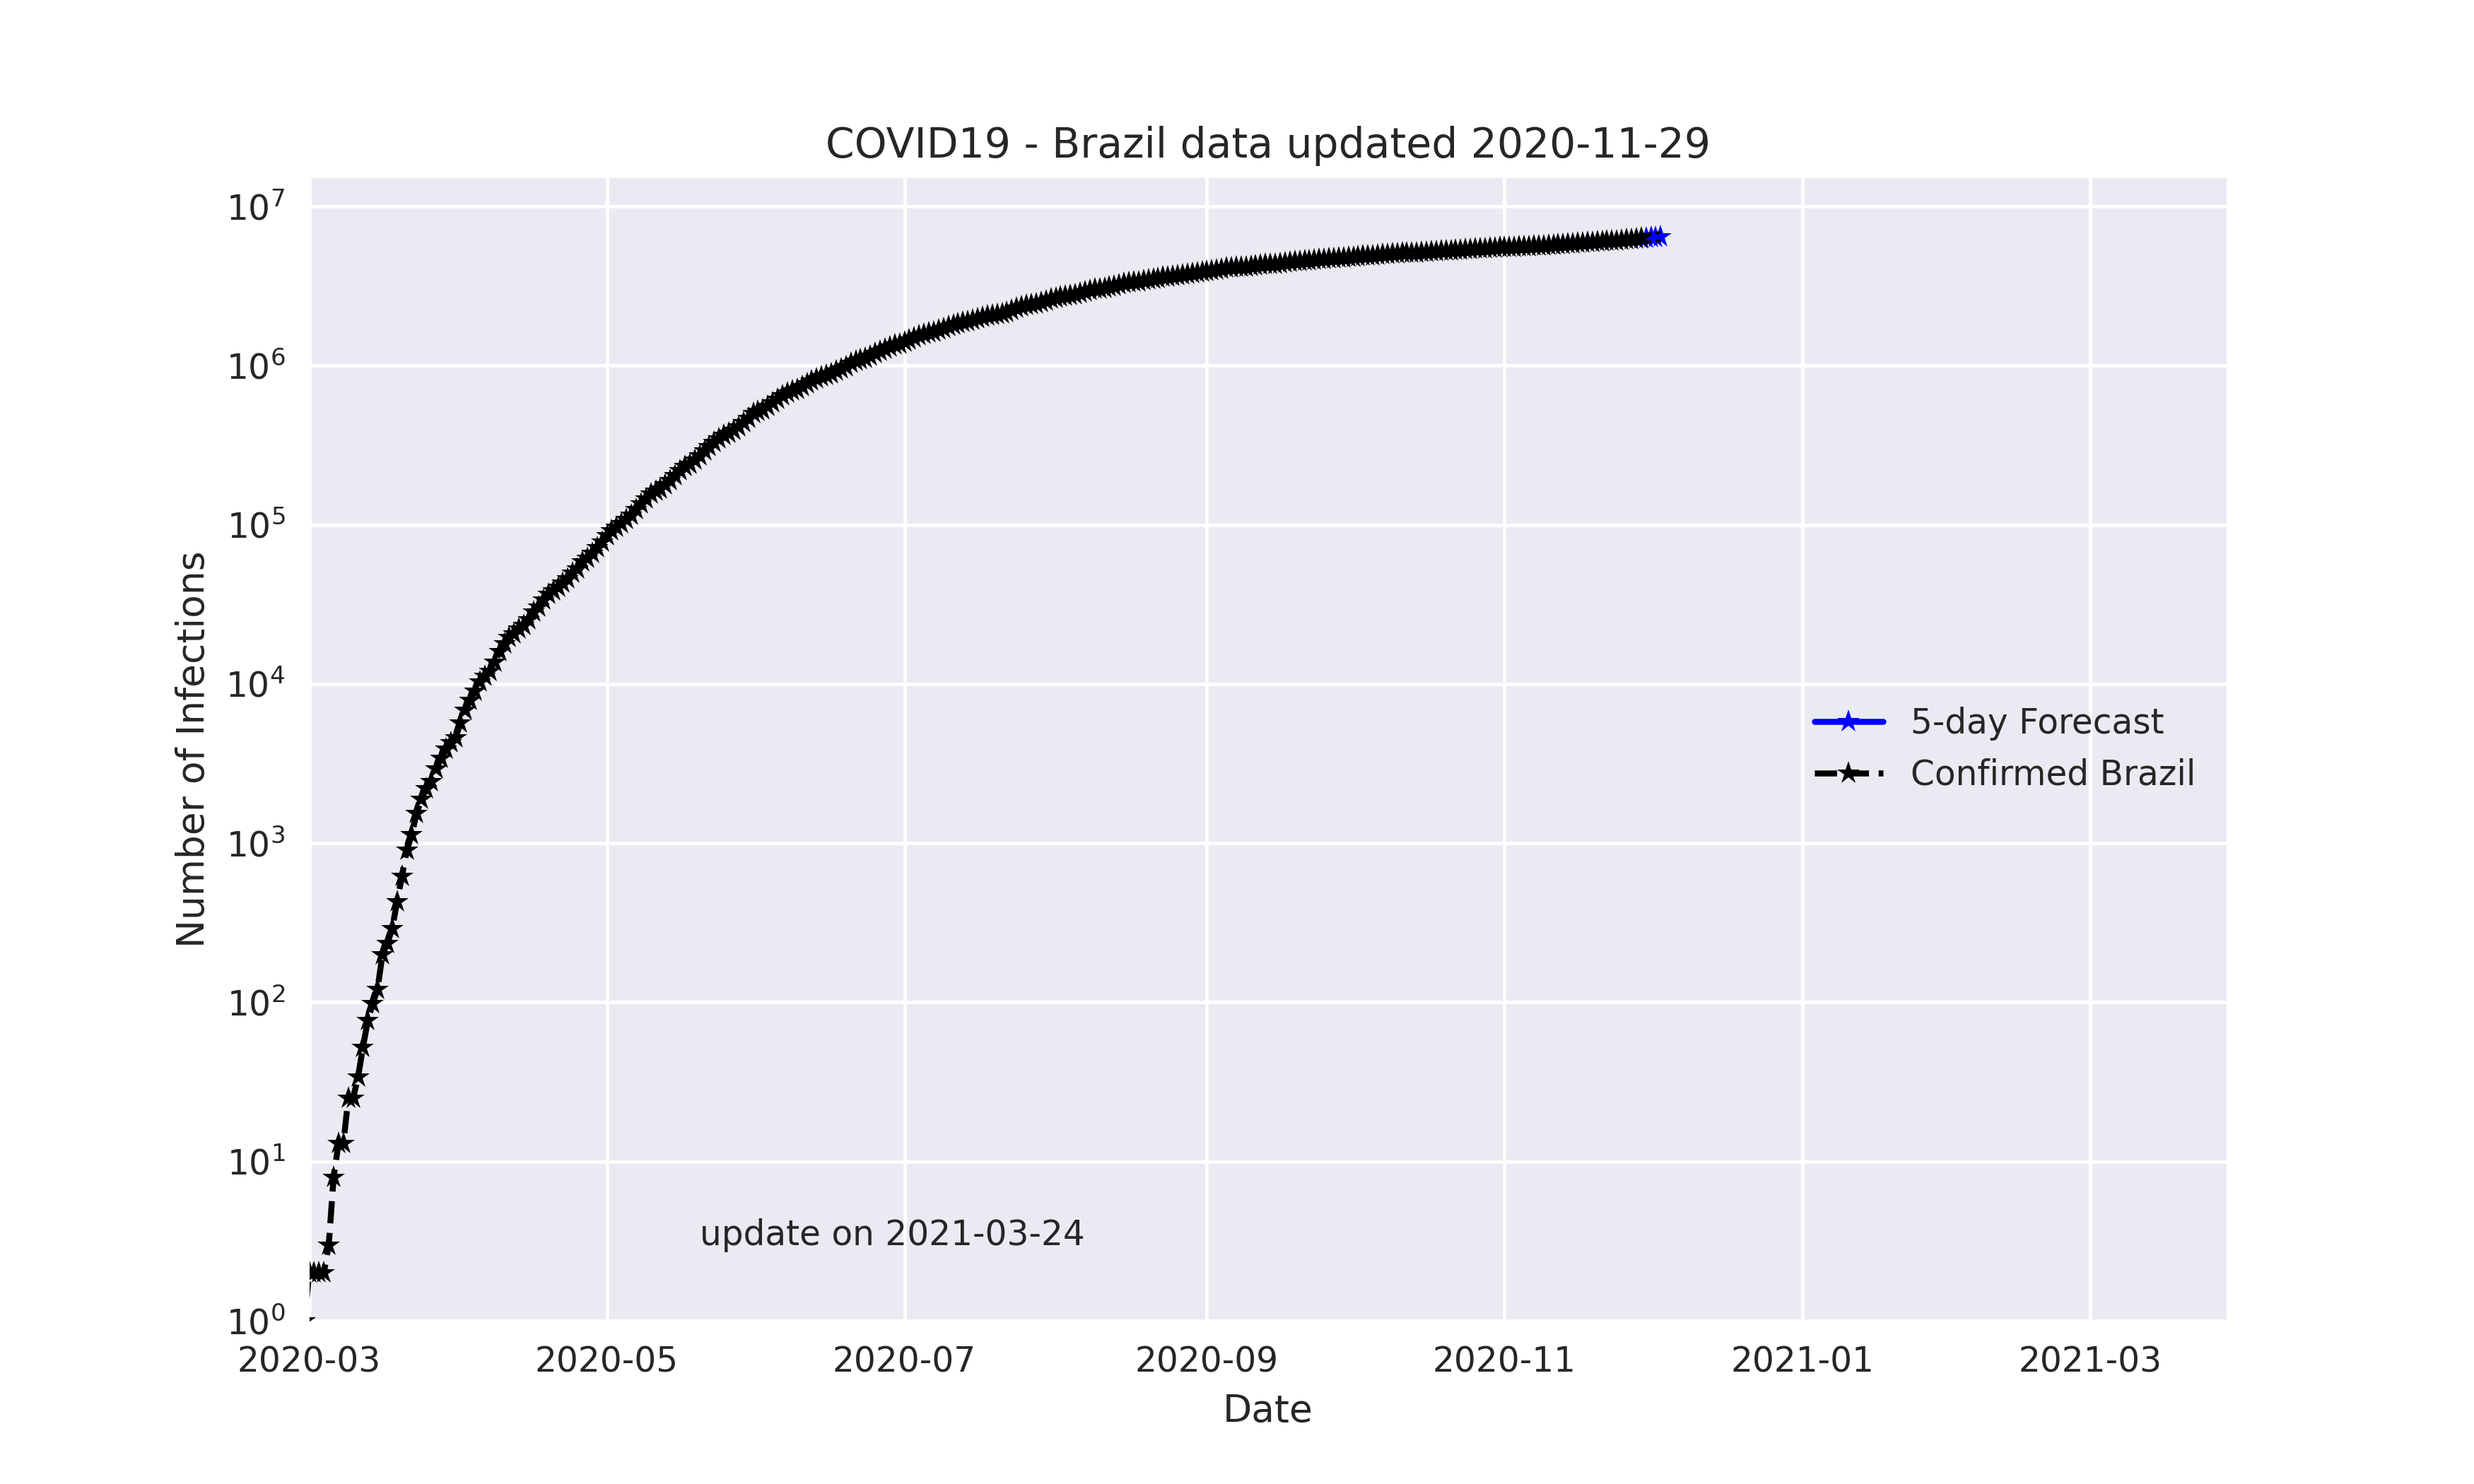
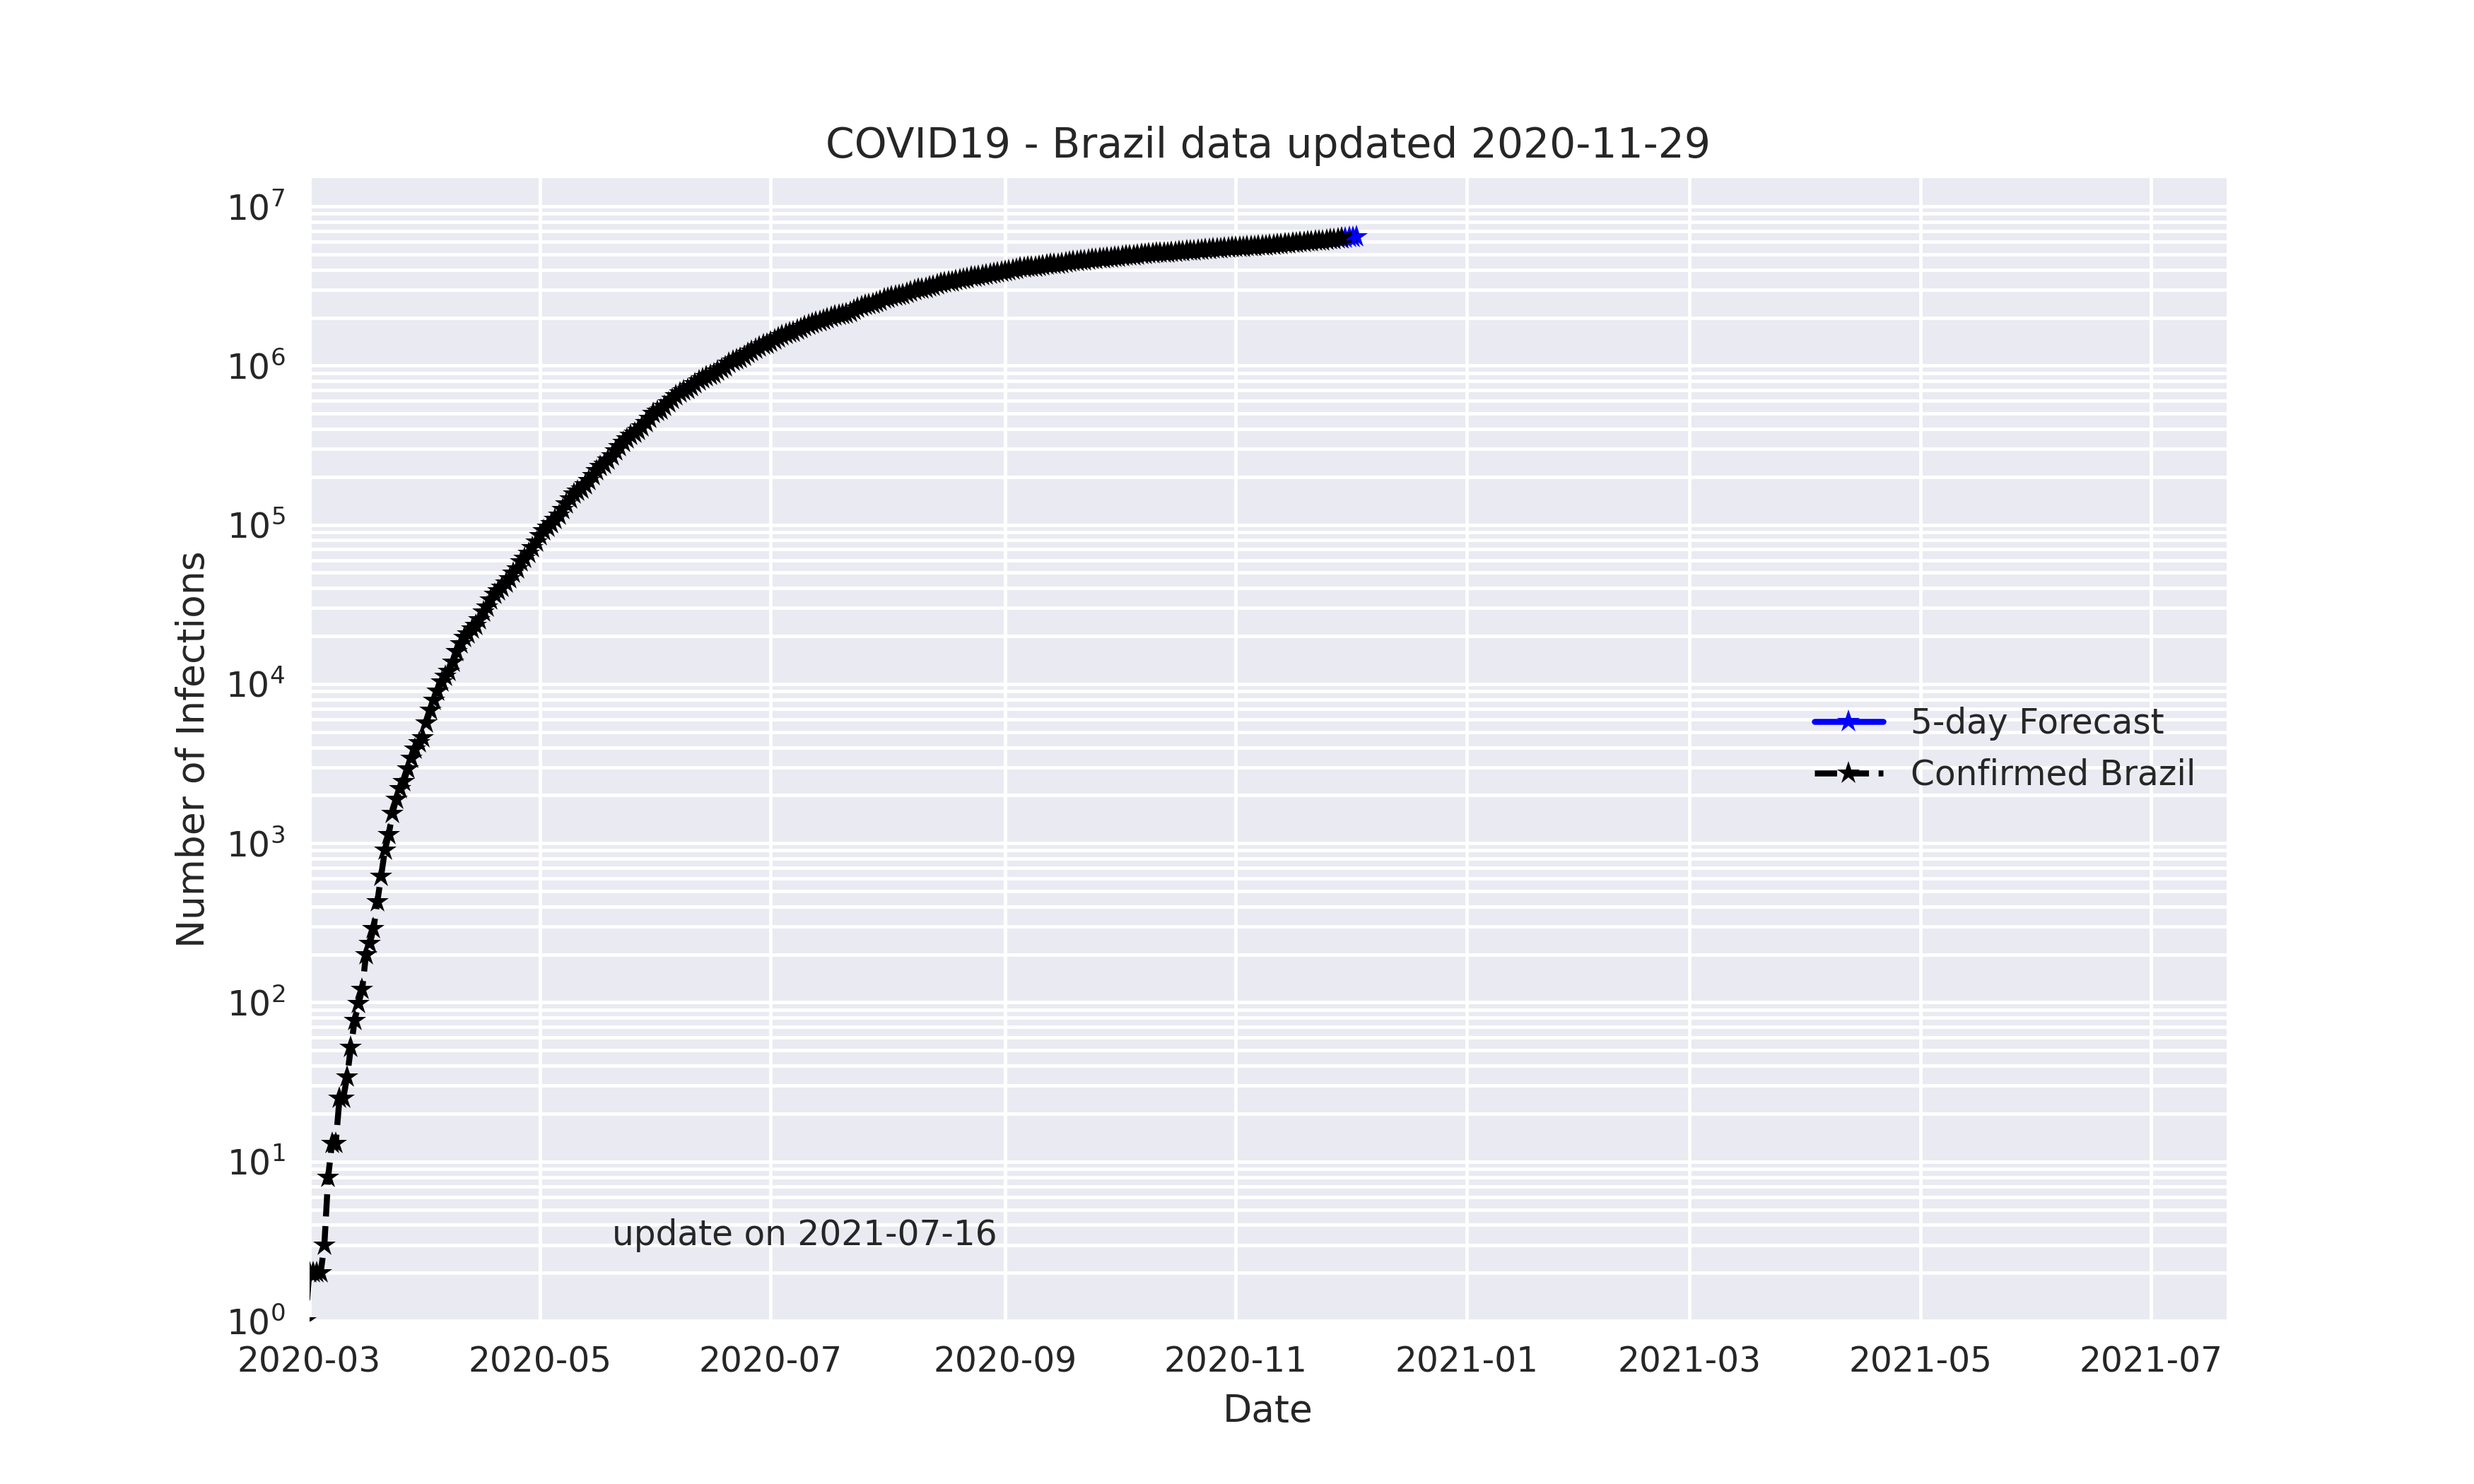
new version of data visualization, the datasets are old, for BR it is updated.

diff --git a/Corona19-Brazil_projeto.py b/Corona19-Brazil_projeto.py
@@ -1,18 +1,7 @@
-# %%
-#!/usr/bin/env python
-# coding: utf-8
-
-# In[1]:
-
-
-# coding: utf-8
-
-from datetime import timedelta, datetime
-
 import numpy as np
-
-import matplotlib.pyplot as plt
 import pandas as pd
+import matplotlib.pyplot as plt
+from datetime import timedelta, datetime
 # importa a biblioteca plotly.graph_objs para criação do gráfico interativo
 import plotly.graph_objs as go
 
@@ -21,44 +10,23 @@ import plotly.graph_objs as go
 
 plt.style.use('seaborn')
 
-# # delete a old file
-# # os.remove("./JHU_COVID-19.csv")
-# os.remove("./full_data.csv")
 # # download the new datasheet form JH
-# # url ="https://s3-us-west-1.amazonaws.com/starschema.covid/JHU_COVID-19.csv"
+# url ="https://s3-us-west-1.amazonaws.com/starschema.covid/JHU_COVID-19.csv"
 # url ="https://covid.ourworldindata.org/data/ecdc/full_data.csv"
 # output_directory = "."
-# filename = wget.download(url, out=output_directory)
 printimage = 'off' # on ou off
 
 # read a csv to DataFrame with pandas
-data = pd.read_csv("https://covid.ourworldindata.org/data/ecdc/full_data.csv")
+# data = pd.read_csv("https://covid.ourworldindata.org/data/ecdc/full_data.csv")
+
+# data = pd.read_csv('/home/claudio/Documents/profissao_DS/projetos/corona/JHU_COVID-19.csv')
+data = pd.read_csv('/home/claudio/Documents/profissao_DS/projetos/corona/full_data.csv')
 
 data.index = pd.to_datetime(data.date)
-# sel data form Brazil
+## sel data form Brazil
 ctry = data[data["location"] == 'Brazil']
 tested = ctry.copy()
-
-# create a arrays for curve fit parameters of a exponential equation
-# xdays = []
-# ydata = []
 dateCase = []
-# today=datetime.now().date()
-# offsetcases = 1000.
-# ndays=10
-# ################################### Cases #####
-# cond_idx = tested.index[np.where(tested["total_cases"]>offsetcases)]
-# case1 = cond_idx[0]
-# ndate = cond_idx
-# ########################################
-# for ib in enumerate(ndate):
-#     if tested["total_cases"][cond_idx[ib[0]]] >= offsetcases:
-#         selday = (ib[1]-case1).days == np.arange(0,len(cond_idx)+ndays,ndays)
-#         if True in selday:
-#             xdays.append((ib[1]-case1).days)
-#             ydata.append(tested["total_cases"][cond_idx[ib[0]]])
-#             dateCase.append(tested["date"][cond_idx[ib[0]]])
-# >>>>>>>>>
 
 # do fiting
 # ydata = tested.last("5W").resample('1W').mean().total_cases.values
@@ -99,8 +67,6 @@ hojebr = func(len(xdata)+1, *poptbr)
 # print(tocsv.to_markdown())
 
 # Graphic Brazil
-
-# Graphic Brazil
 fig = plt.figure(figsize=[10, 6])
 ax2 = plt.subplot()
 
@@ -118,9 +84,10 @@ ax2.set_xlim(pd.to_datetime("2020-03-01").date(), datetime.now().date()+timedelt
 ax2.set_yscale('log')
 ax2.set_ylim(1,)
 ax2.legend(loc="center right")
-ax2.grid(1)
+ax2.grid('both','both')
 plt.show()
-fig.savefig("images/log_data_forecast_brazil.png", dpi=350)
+fig.savefig("./images/log_data_forecast_brazil.png", dpi=350)
+
 
 #  Countreis of South America
 ############################SA##############
@@ -143,16 +110,16 @@ for ii in sa:
     if len(p) > 0:
         ax.plot(pd.to_datetime(p.date),p.total_cases, label=ii)
         lf = p.total_cases.index[p.total_cases.argmax()].date()
-        ax.text(lf+timedelta(days=2),p.total_cases.max(), ii)
+        # ax.text(lf+timedelta(days=2),p.total_cases.max(), ii)
 ax.plot(psum,'-*',label= 'sum South America')
-ax.text(pd.to_datetime('2020-06-01'), 20, 'update on ' + str(today))
+ax.text(pd.to_datetime('2020-06-01'), 30, 'update on ' + str(today))
 ax.set_yscale('log')
 ax.set_title("Countries of South America")
 ax.set_ylabel("Number of Infections")
 ax.set_xlim(pd.to_datetime('2020-03-13').date(), lf+timedelta(days=15))
 ax.set_xlabel('Date when over 20 cases confirmeds')
 ax.set_ylim(10,)
-plt.legend(loc='upper center', bbox_to_anchor=(1.13, 0.8), shadow=True, ncol=1)
+plt.legend(loc='upper right', bbox_to_anchor=(1.0, 0.3), shadow=True, ncol=2, fontsize=8)
 if printimage == "off":
 	fig.savefig("images/southAmerica_brazil.png", dpi=350)
 	plt.close()
@@ -167,7 +134,6 @@ else:
 borderBR = ['Argentina', 'Bolivia', 'Brazil', 'Colombia', 'French Guiana', 'Guyana', 'Paraguay', 'Peru', 'Suriname']
 borderBR = sorted(borderBR)
 
-# psum.values
 ############################
 fig = plt.figure(figsize=[10, 6])
 ax = plt.subplot()
@@ -177,15 +143,15 @@ for ii in borderBR:
     if len(p) > 0:
         ax.plot(pd.to_datetime(p.date),p.total_cases, label=ii)
         lf = p.total_cases.index[p.total_cases.argmax()].date()
-        ax.text(lf+timedelta(days=2),p.total_cases.max(), ii)
+        # ax.text(lf+timedelta(days=2),p.total_cases.max(), ii)
 ax.text(pd.to_datetime('2020-06-01'), 20, 'update on ' + str(today))
-ax.set_yscale('log')
+# ax.set_yscale('log')
 ax.set_title("Countries bordering of Brazil")
 ax.set_ylabel("Number of Infections")
 ax.set_xlim(pd.to_datetime('2020-03-13').date(), lf+timedelta(days=15))
 ax.set_xlabel('Date when over 20 cases confirmeds')
 ax.set_ylim(10,)
-plt.legend(loc='upper center', bbox_to_anchor=(1.08, 0.8), shadow=True, ncol=1)
+plt.legend(loc='upper right', bbox_to_anchor=(1.0, 0.3), shadow=True, ncol=2, fontsize=8)
 
 if printimage == "off":
 	fig.savefig("images/border_brazil.png", dpi=350)
@@ -198,8 +164,6 @@ else:
 ################# world############################ world###########
 
 top = total_data[~total_data.location.isin(['World'])].sort_values('total_cases',ascending=False).location.unique()[:5]
-top
-# top.append("Brazil")
 
 ################# world############################ world###########
 ################# world############################ world###########
@@ -212,21 +176,20 @@ for ii in top:
     if len(p) > 0:
         ax.plot(p.total_cases, label=ii)
         lf = p.total_cases.index[p.total_cases.argmax()].date()
-        ax.text(lf+timedelta(days=2),p.total_cases.max(), ii)
+        # ax.text(lf+timedelta(days=2),p.total_cases.max(), ii)
 ax.text(pd.to_datetime('2020-06-01'), 200, 'update on ' + str(today))
 ax.set_yscale('log')
 ax.set_title("Countries of World")
 ax.set_ylabel("Number of Infections")
 ax.set_xlim(pd.to_datetime('2020-03-13').date(), lf+timedelta(days=16))
 ax.set_xlabel('Days after the day with over 100 cases confirmeds')
-plt.legend(loc='upper center', bbox_to_anchor=(1.10, 0.8), shadow=True, ncol=1)
+plt.legend(loc='upper right', bbox_to_anchor=(1.0, 0.3), shadow=True, ncol=1, fontsize=8)
 if printimage == "off":
 	fig.savefig("images/top_world.png", dpi=350)
 	plt.close()
 else: 
 	plt.show()
 	fig.savefig("images/top_world.png", dpi=350)
-
 
 # top 5 STATES OF BRAZIL########################
 # top 5 STATES OF BRAZIL########################
@@ -236,10 +199,8 @@ dados_brazil = pd.read_csv(url, header=0, index_col="date")
 ############
 ############
 dados_brazil.index = pd.to_datetime(dados_brazil.index)
-nna = dados_brazil.loc[:, ["state", "totalCases"]].where((dados_brazil["state"] != 'TOTAL') & (dados_brazil["totalCases"] > 26.)).dropna().sort_values(
-    by="totalCases",
-    ascending=False)
-TOP5 = nna.state.unique()[:5]
+queryNA = dados_brazil.loc[:, ["state", "totalCases"]].where((dados_brazil["state"] != 'TOTAL') & (dados_brazil["totalCases"] > 26.)).dropna().sort_values(by="totalCases",ascending=False)
+TOP5 = queryNA.state.unique()[:5]
 print(TOP5)
 ########################### TOP 5 ############
 ############
@@ -252,14 +213,14 @@ for ii in TOP5:
     if len(p) > 0:
         ax.plot(p.totalCases_per_100k_inhabitants, label=ii)
         lf = p.totalCases_per_100k_inhabitants.index[p.totalCases_per_100k_inhabitants.argmax()].date()
-        ax.text(lf+timedelta(days=2),p.totalCases_per_100k_inhabitants.max(), ii)
+        # ax.text(lf+timedelta(days=2),p.totalCases_per_100k_inhabitants.max(), ii)
 ax.text(pd.to_datetime('2020-06-01'), 1, 'update on ' + str(today))
 # ax.set_yscale('log')
 ax.set_title("5 States of Brazil")
 ax.set_ylabel("Number of Infections / 100mil hab")
 ax.set_xlim(pd.to_datetime('2020-03-13').date(), lf+timedelta(days=15))
 ax.set_xlabel('Date when over 20 cases confirmeds')
-plt.legend(loc='upper center', bbox_to_anchor=(1.06, 0.8), shadow=True, ncol=1)
+plt.legend(loc='upper right', bbox_to_anchor=(1.0, 0.3), shadow=True, ncol=1)
 plt.grid("both")
 if printimage == "off":
 	fig.savefig("images/n20cases_TOP5.png", dpi=350)
@@ -275,7 +236,6 @@ morte = dados_brazil.groupby('state')['deaths_by_totalCases'].last().mul(100)
 nx = morte.index.values.astype('str')
 nx[-1] = "BR"
 import matplotlib.ticker as mtick
-fmt = '%.2f%%'
 
 # Graphic Brazil
 fig = plt.figure(figsize=[10, 6])
@@ -283,14 +243,14 @@ ax2 = plt.subplot()
 # Fatality rate
 ax2.bar(nx[:-1], morte.values[:-1],label="Fatality",color='black')
 ax2.bar(nx[-1], morte.values[-1],color='red',label="Fatality of Brazil")
-ax2.text('AC', 7.6, 'update on ' + str(datetime.now().date()))
+ax2.text('AC', 5.0, 'update on ' + str(datetime.now().date()))
 ax2.set_xlabel("States of Brazil")
-yticks = mtick.FormatStrFormatter(fmt)
+yticks = mtick.FormatStrFormatter('%.2f%%')
 ax2.yaxis.set_major_formatter(yticks)
 ax2.set_ylabel("Fatality")
 ax2.set_xlim('AC', 'BR')
 ax2.legend(loc="upper left")
-plt.grid("both")
+plt.grid("both","both")
 if printimage == "off":
 	fig.savefig("images/fatality_rate.png", dpi=350)
 	plt.close()
